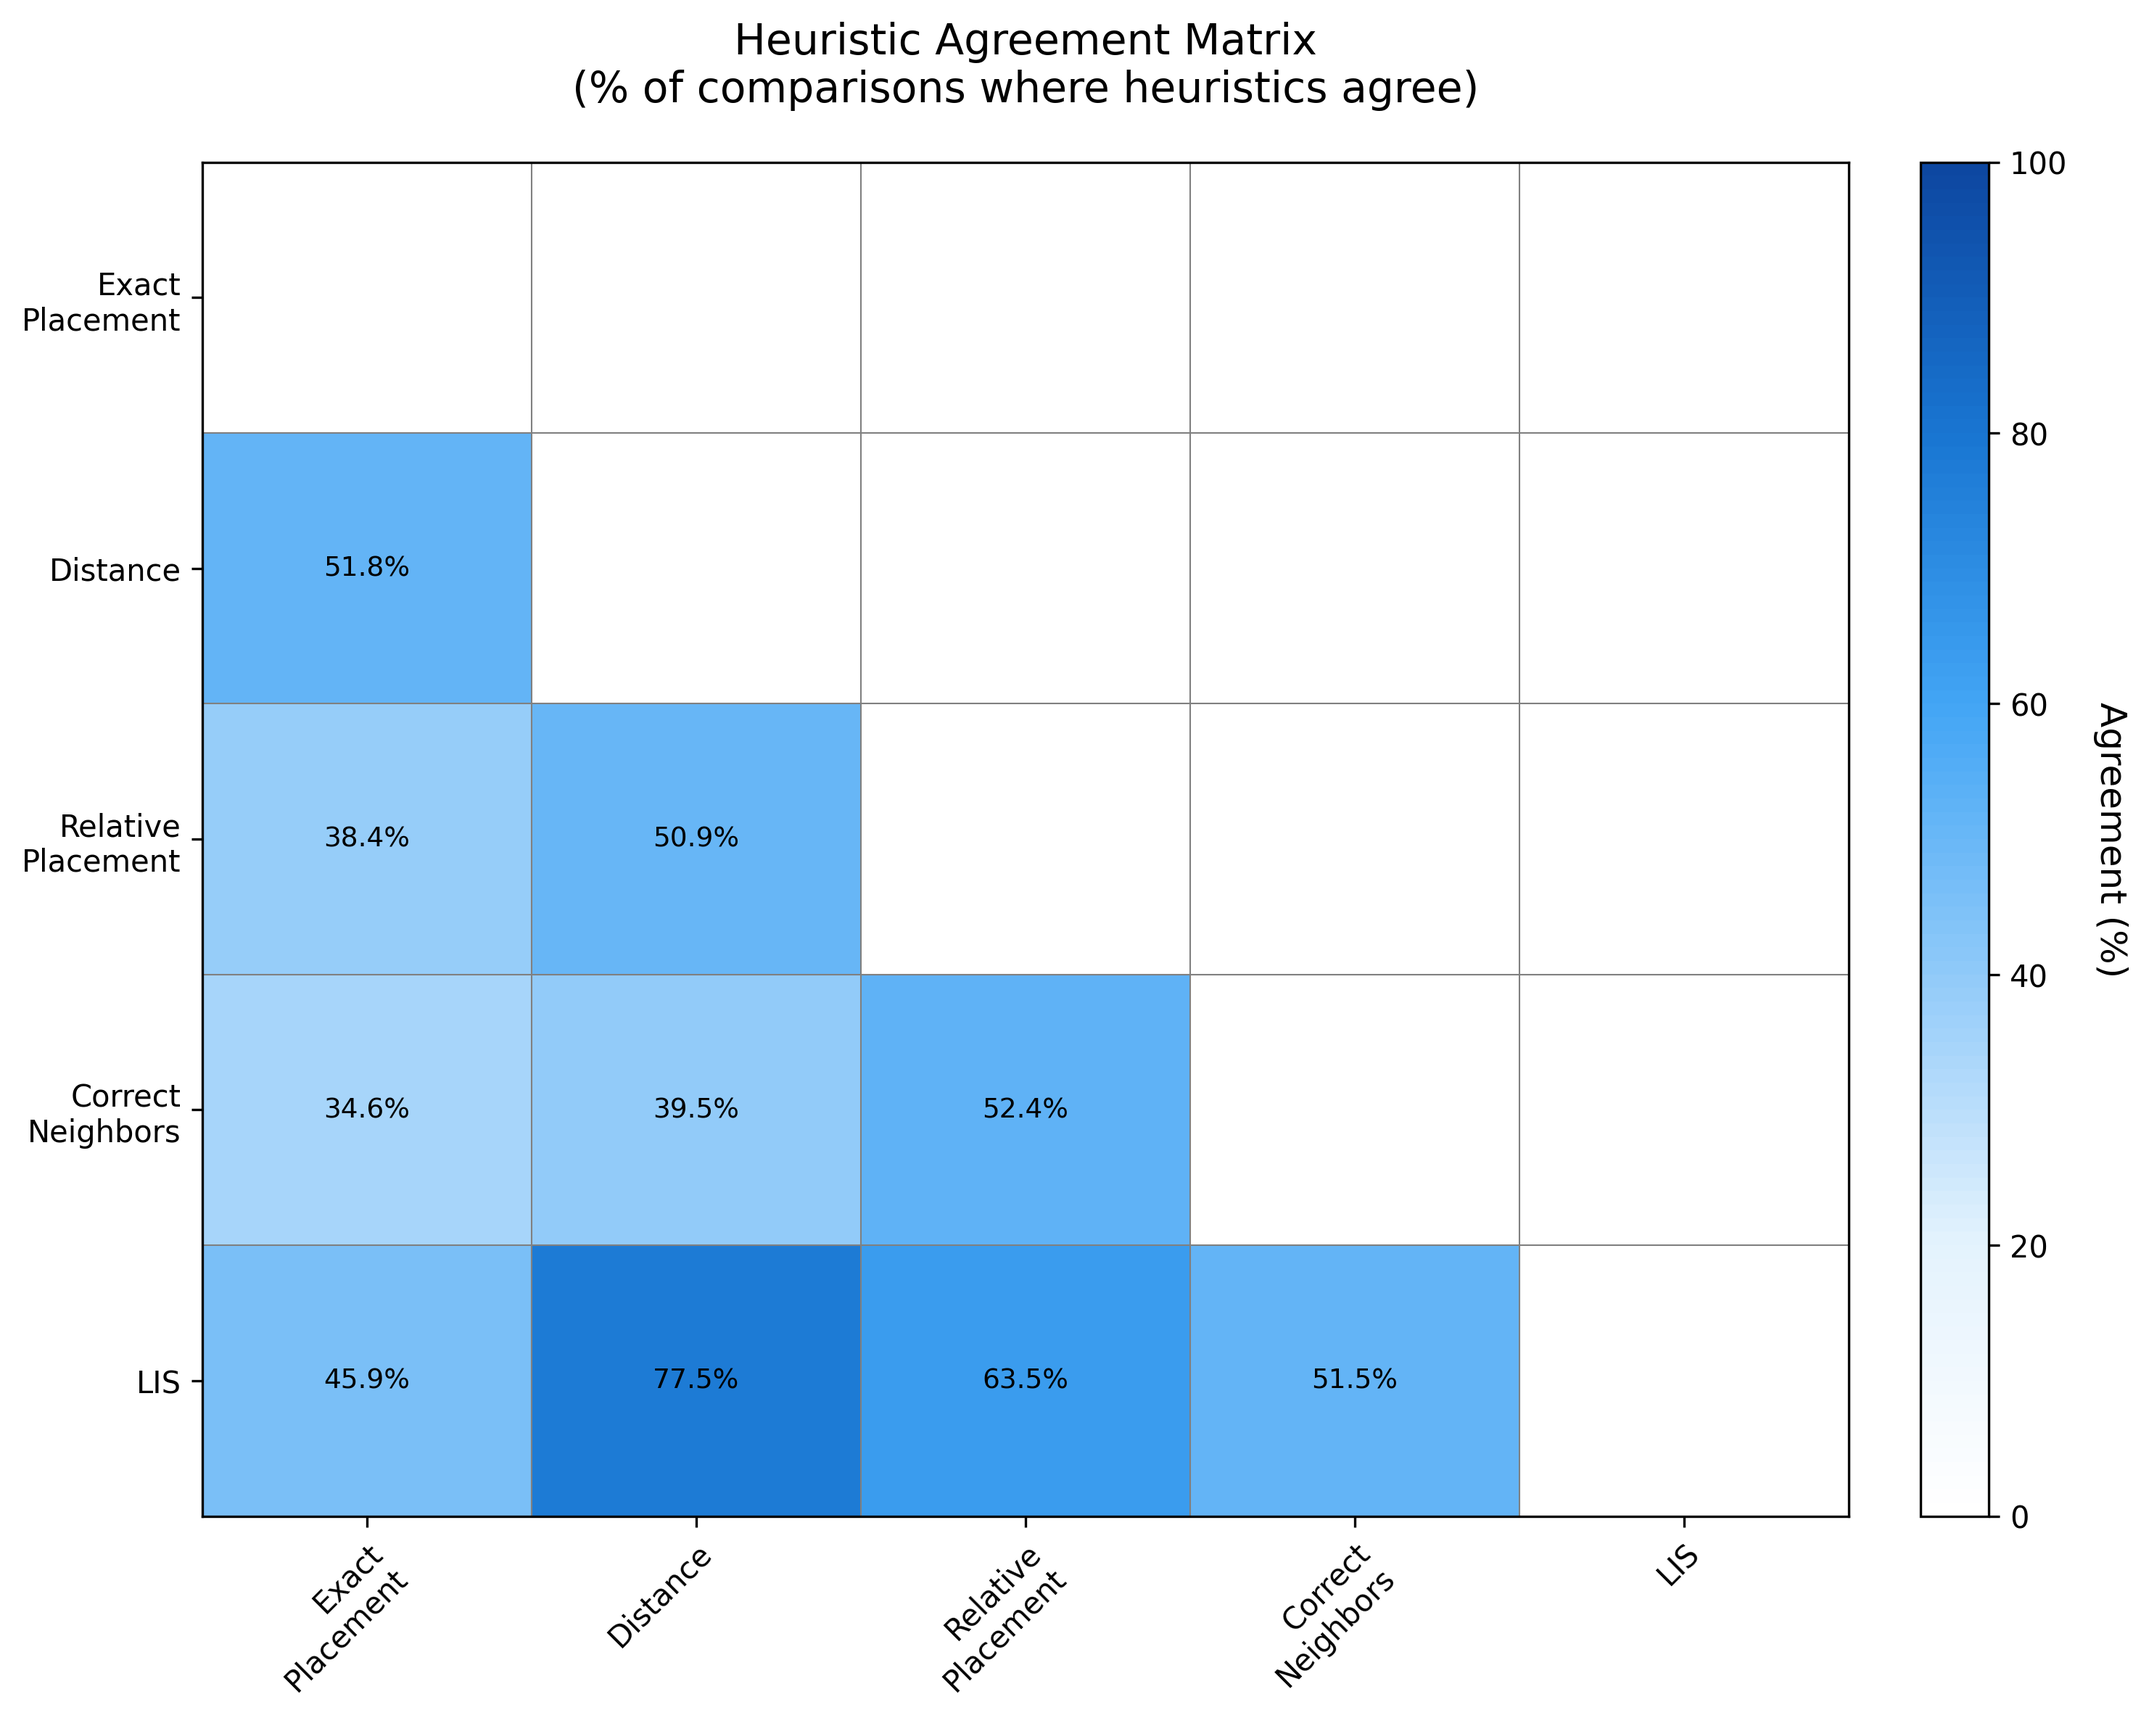
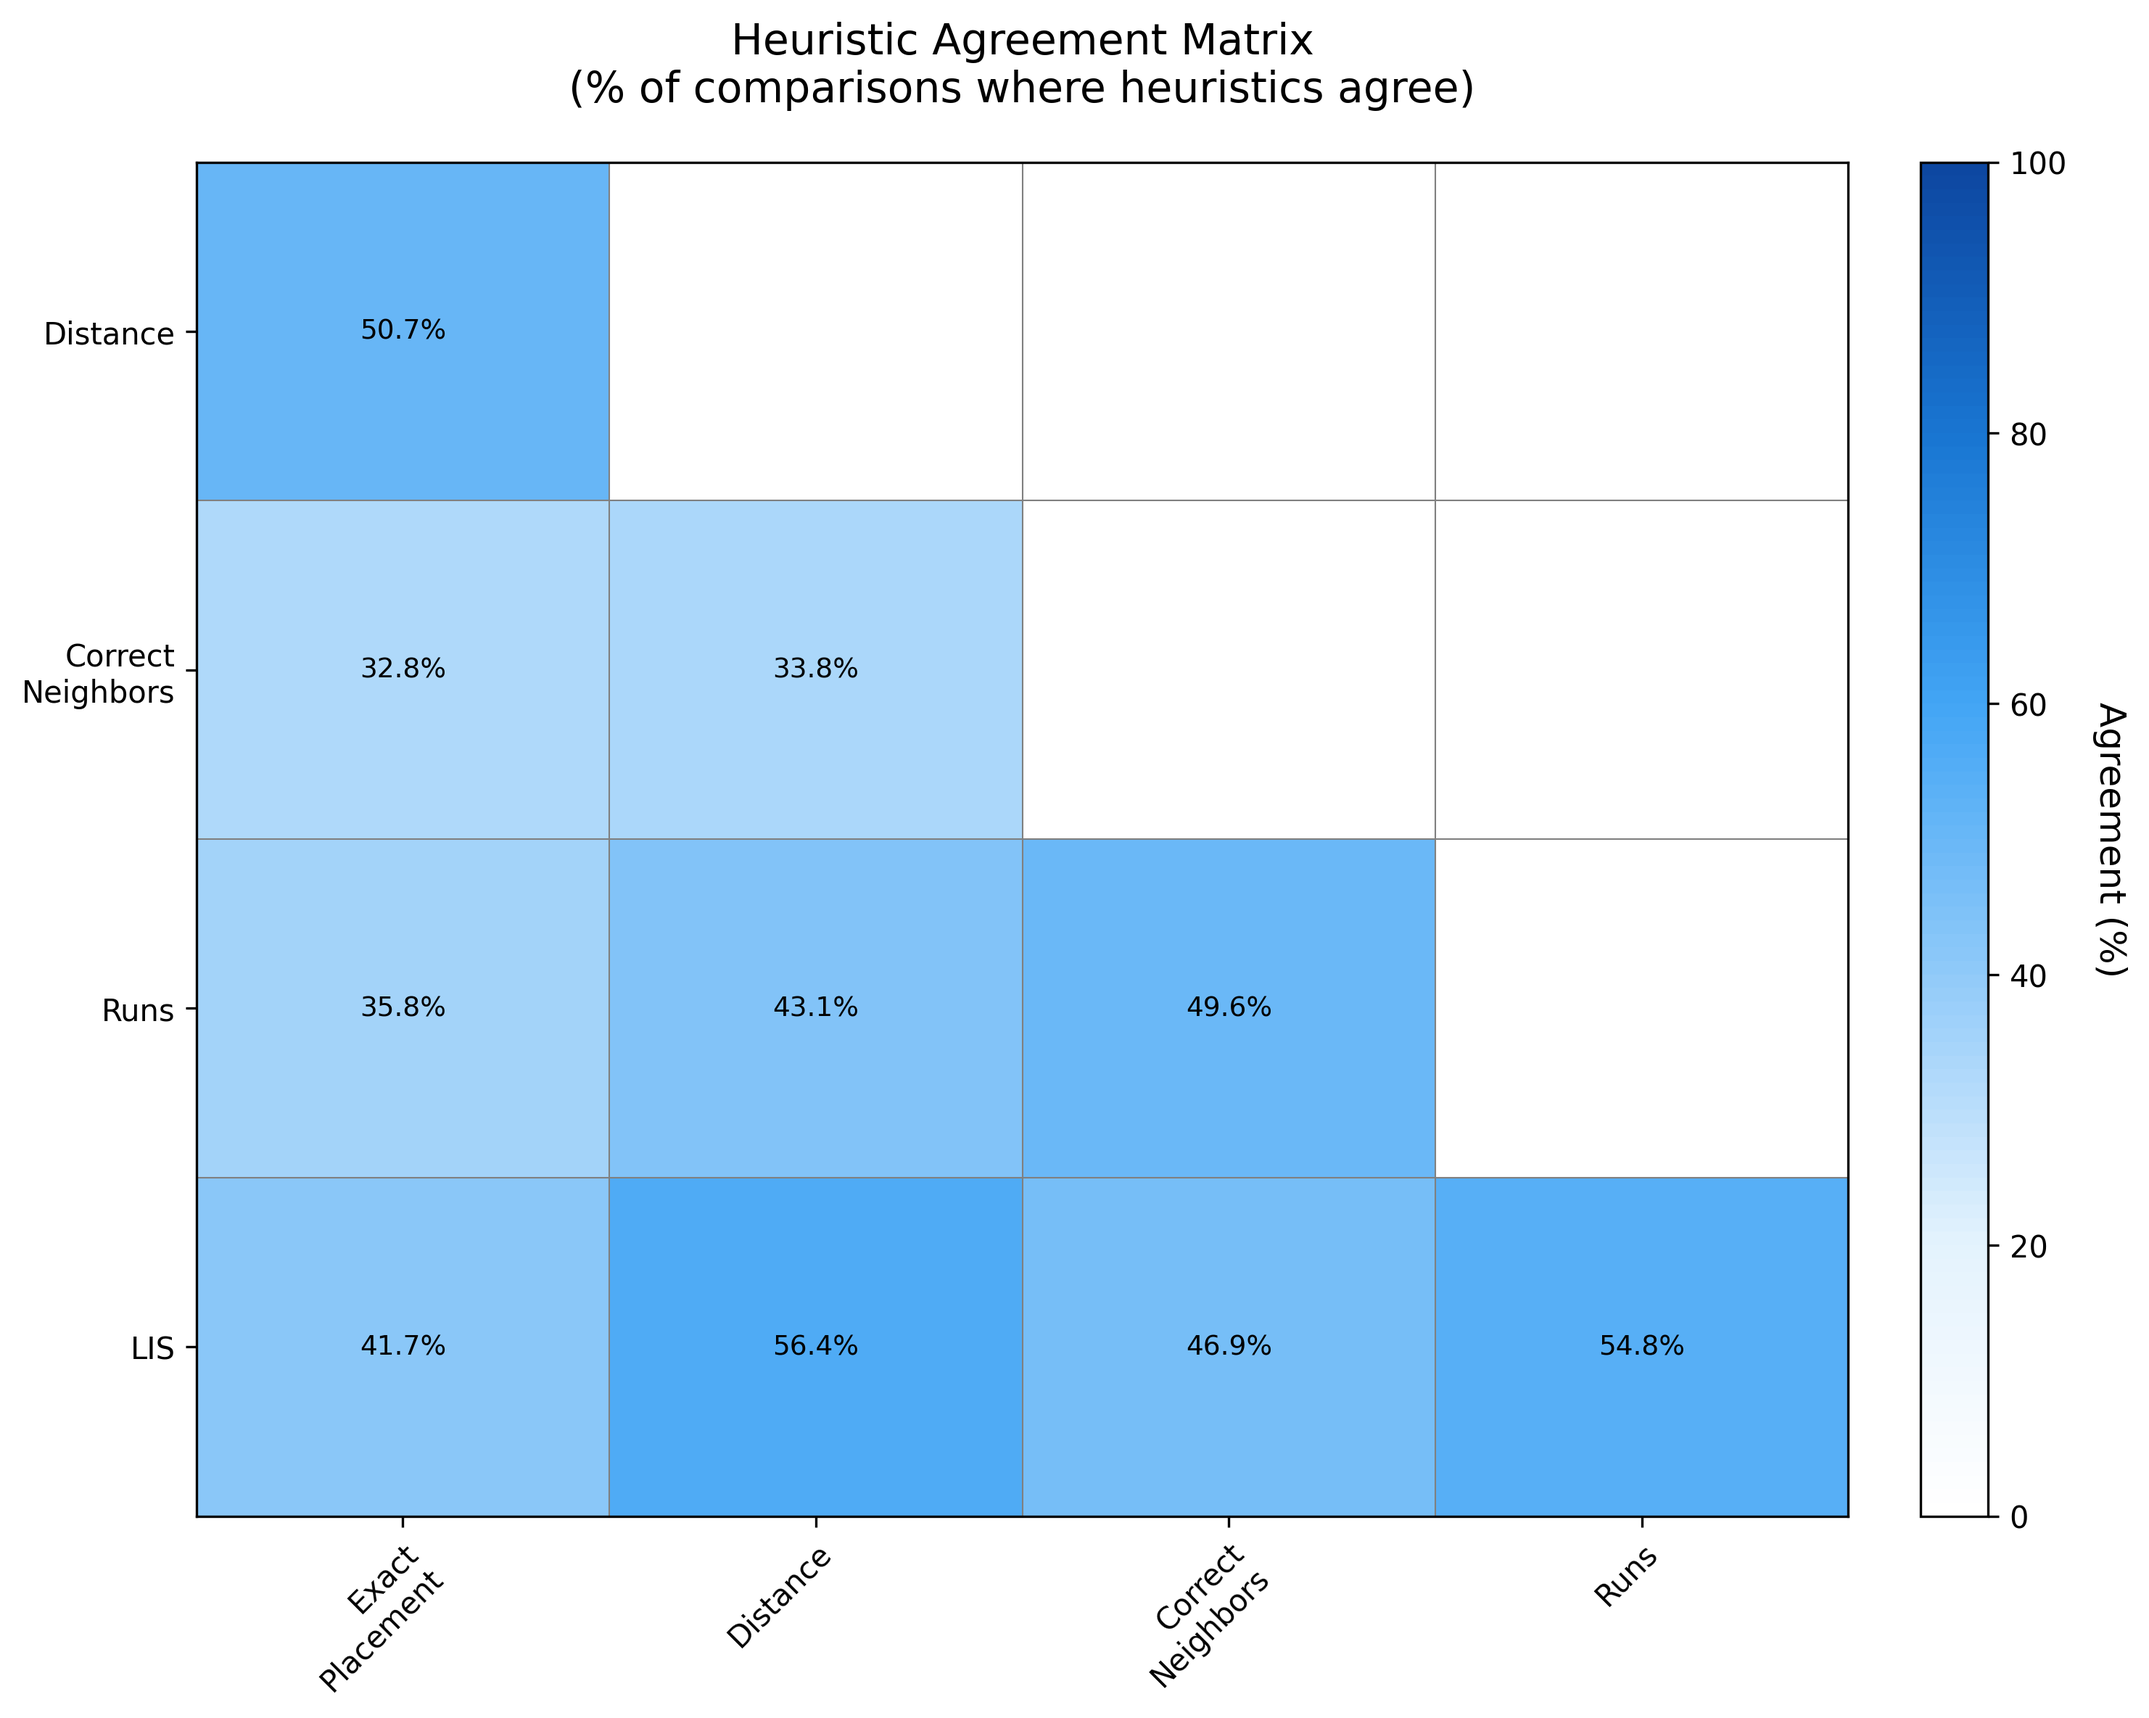
more progress on um-actually content

diff --git a/rust/how_sorted/analyze_heuristics.py b/rust/how_sorted/analyze_heuristics.py
@@ -30,8 +30,8 @@ def calculate_agreement_matrix(results):
     heuristics = [
         "exact_placement",
         "distance",
-        "relative_placement",
         "correct_neighbors",
+        "runs",
         "lis",
     ]
     n = len(heuristics)
@@ -59,12 +59,20 @@ def create_triangular_heatmap(
     Create a triangular heatmap showing agreement between heuristics.
 
     Only the lower triangle is shown to avoid redundancy (since agreement is symmetric).
+    The first row and last column are excluded since they contain no data in a
+    lower-triangular layout.
     """
     n = len(heuristics)
 
-    # Create a masked array for the upper triangle
-    mask = np.triu(np.ones_like(agreement_matrix, dtype=bool))
-    masked_data = np.ma.array(agreement_matrix, mask=mask)
+    # Exclude first row and last column (they're always empty in lower triangle)
+    # Row labels: heuristics[1:] (skip first)
+    # Column labels: heuristics[:-1] (skip last)
+    trimmed_matrix = agreement_matrix[1:, :-1]
+    trimmed_n = n - 1
+
+    # Create a masked array for the strictly upper triangle (k=1 excludes diagonal)
+    mask = np.triu(np.ones_like(trimmed_matrix, dtype=bool), k=1)
+    masked_data = np.ma.array(trimmed_matrix, mask=mask)
 
     # Create figure and axis
     fig, ax = plt.subplots(figsize=(10, 8))
@@ -82,32 +90,33 @@ def create_triangular_heatmap(
     cbar.set_label("Agreement (%)", rotation=270, labelpad=20, fontsize=12)
 
     # Set ticks and labels
-    ax.set_xticks(np.arange(n))
-    ax.set_yticks(np.arange(n))
+    ax.set_xticks(np.arange(trimmed_n))
+    ax.set_yticks(np.arange(trimmed_n))
 
     # Shorten labels for display
     short_labels = [
         "Exact\nPlacement",
         "Distance",
-        "Relative\nPlacement",
         "Correct\nNeighbors",
+        "Runs",
         "LIS",
     ]
 
-    ax.set_xticklabels(short_labels, fontsize=10)
-    ax.set_yticklabels(short_labels, fontsize=10)
+    # X-axis: all but last label, Y-axis: all but first label
+    ax.set_xticklabels(short_labels[:-1], fontsize=10)
+    ax.set_yticklabels(short_labels[1:], fontsize=10)
 
     # Rotate x-axis labels
     plt.setp(ax.get_xticklabels(), rotation=45, ha="right", rotation_mode="anchor")
 
     # Add text annotations for each cell
-    for i in range(n):
-        for j in range(n):
-            if i > j:  # Only lower triangle
+    for i in range(trimmed_n):
+        for j in range(trimmed_n):
+            if i >= j:  # Lower triangle including diagonal
                 ax.text(
                     j,
                     i,
-                    f"{agreement_matrix[i, j]:.1f}%",
+                    f"{trimmed_matrix[i, j]:.1f}%",
                     ha="center",
                     va="center",
                     color="black",
@@ -121,8 +130,8 @@ def create_triangular_heatmap(
     )
 
     # Add grid
-    ax.set_xticks(np.arange(n) - 0.5, minor=True)
-    ax.set_yticks(np.arange(n) - 0.5, minor=True)
+    ax.set_xticks(np.arange(trimmed_n) - 0.5, minor=True)
+    ax.set_yticks(np.arange(trimmed_n) - 0.5, minor=True)
     ax.grid(which="minor", color="gray", linestyle="-", linewidth=0.5)
     ax.tick_params(which="minor", size=0)
 

diff --git a/rust/how_sorted/src/lib.rs b/rust/how_sorted/src/lib.rs
@@ -35,22 +35,6 @@ pub fn score_by_distance(l: impl Iterator<Item = i32>) -> i32 {
 }
 // SNIPPET_END: score_by_distance
 
-// implementation 3 - score by relative placement:
-// This version compares each neighboring pair of elements and counts the number
-// of neighbors that are out of order.
-//
-// ```ocaml
-// let score_by_relative_placement l =
-//    List.count (List.pairs l) ~f:(fun a b -> b < a)
-// ```
-//
-// A score of 0 is perfect, and larger scores are worse
-// SNIPPET_START: score_by_relative_placement
-pub fn score_by_relative_placement(l: &[i32]) -> usize {
-    l.windows(2).filter(|pair| pair[1] < pair[0]).count()
-}
-// SNIPPET_END: score_by_relative_placement
-
 // implementation 3 - score by correct neighbors:
 // This version compares each neighboring pair of elements and counts the number
 // of neighbors that aren't actually next to one another in the sorted list.
@@ -67,7 +51,26 @@ pub fn score_by_correct_neighbors(l: &[i32]) -> usize {
 }
 // SNIPPET_END: score_by_correct_neighbors
 
-// implementation 4 - score by num modifications:
+// implementation 4 - score by runs:
+// This version counts how many "ascending runs" the list has. A perfectly
+// sorted list has exactly 1 run, while a heavily shuffled list has many.
+// For example, [1,2,3,5,4,6,7] has 3 runs: [1,2,3], [5], [4,6,7].
+// We return runs - 1 so that a perfectly sorted list scores 0.
+//
+// A score of 0 is perfect, and larger scores are worse
+// SNIPPET_START: score_by_runs
+pub fn score_by_runs(l: &[i32]) -> usize {
+    if l.is_empty() {
+        return 0;
+    }
+    // Count the number of times we start a new run (when current < previous)
+    // Number of runs = 1 + number of "breaks"
+    let breaks = l.windows(2).filter(|pair| pair[1] < pair[0]).count();
+    breaks // This equals runs - 1, so a sorted list scores 0
+}
+// SNIPPET_END: score_by_runs
+
+// implementation 5 - score by num modifications:
 // This is a heuristic that would be easy for a human to understand, but could
 // be hard for them to implement. Imagine that you have a small hand of playing
 // cards laid out on a table in some order. We can define "how sorted are these

diff --git a/rust/how_sorted/src/main.rs b/rust/how_sorted/src/main.rs
@@ -18,8 +18,8 @@ struct ComparisonResult {
     sequence_b: Vec<i32>,
     exact_placement: Outcome,
     distance: Outcome,
-    relative_placement: Outcome,
     correct_neighbors: Outcome,
+    runs: Outcome,
     lis: Outcome,
 }
 
@@ -60,17 +60,17 @@ fn main() {
         let distance_a = score_by_distance(seq_a.iter().copied());
         let distance_b = score_by_distance(seq_b.iter().copied());
 
-        let relative_a = score_by_relative_placement(&seq_a);
-        let relative_b = score_by_relative_placement(&seq_b);
-
         let neighbors_a = score_by_correct_neighbors(&seq_a);
         let neighbors_b = score_by_correct_neighbors(&seq_b);
+
+        let runs_a = score_by_runs(&seq_a);
+        let runs_b = score_by_runs(&seq_b);
 
         let lis_a = score_by_lis(&seq_a);
         let lis_b = score_by_lis(&seq_b);
 
         //if !(lis_a <= 3 || lis_b <= 3) {
-        if lis_a == lis_b {
+        if false {
             continue;
         }
 
@@ -79,8 +79,8 @@ fn main() {
             sequence_b: seq_b,
             exact_placement: compare_scores(exact_a, exact_b),
             distance: compare_scores(distance_a, distance_b),
-            relative_placement: compare_scores(relative_a, relative_b),
             correct_neighbors: compare_scores(neighbors_a, neighbors_b),
+            runs: compare_scores(runs_a, runs_b),
             lis: compare_scores(lis_a, lis_b),
         });
 

diff --git a/content/posts/um-actually.md b/content/posts/um-actually.md
@@ -152,22 +152,9 @@ element is off by 1, and we have 7 elements, but the first one is off by 6),
 while Person B's reversed list would score much higher. This metric properly
 rewards partial correctness.
 
-# Option 3: score by relative placement
+# Option 3: score by correct neighbors
 
-Maybe we don't care about absolute positioning at all. Perhaps what matters is
-whether elements are in the right order _relative to each other_. This approach
-counts how many neighboring pairs are out of order.
-
-{{< code-snippet file="rust/how_sorted/src/lib.rs" region="score_by_relative_placement" lang="rust" >}}
-
-This metric counts "inversions" - pairs of adjacent elements where the second
-one should come before the first. Person A would score 1 (just the HP 7 / HP 1
-inversion at the start), while Person B would score 6 (every single pair is
-inverted). Much better!
-
-# Option 4: score by correct neighbors
-
-Similar to relative placement, but stricter: this counts how many adjacent
+This approach counts how many adjacent
 pairs _aren't consecutive in the sorted list_. Even if two elements are in
 the right order relative to each other, if they're not actually neighbors in
 the sorted sequence, it counts against you.
@@ -178,6 +165,22 @@ This is even more strict than the previous metric. For Person A's list, HP 1
 through HP 6 are all consecutive, so we'd only penalize the HP 7 at the front
 (1 incorrect neighbor pair). Person B's reversed list would have every pair
 incorrect (6 penalties).
+
+# Option 4: score by runs
+
+Another intuitive approach: count how many "ascending runs" exist in the list.
+A perfectly sorted list has exactly one run (the whole thing is ascending),
+while a heavily shuffled list breaks into many separate runs.
+
+For example, `[1, 2, 3, 5, 4, 6, 7]` has 3 runs: `[1, 2, 3]`, then `[5]` (which
+breaks because 4 < 5), then `[4, 6, 7]`.
+
+{{< code-snippet file="rust/how_sorted/src/lib.rs" region="score_by_runs" lang="rust" >}}
+
+For Person A's list `[7, 1, 2, 3, 4, 5, 6]`, we have 2 runs: `[7]` and
+`[1, 2, 3, 4, 5, 6]`, so the score is 1 (one break). For Person B's reversed
+list `[7, 6, 5, 4, 3, 2, 1]`, every adjacent pair is descending, giving us 7
+runs and a score of 6. Person A wins again!
 
 # Option 5: score by minimum modifications (the gold standard)
 
@@ -216,7 +219,7 @@ striking:
 This heatmap shows the percentage of time each pair of heuristics agrees on
 which sequence is "more sorted". The key findings:
 
-- **Distance, Relative Placement, Correct Neighbors, and LIS** all show very
+- **Distance, Correct Neighbors, Runs, and LIS** all show very
   high agreement with each other (typically 85-95%), suggesting they're
   measuring fundamentally similar properties
 - **Exact Placement** shows much lower agreement with every other heuristic
@@ -232,8 +235,8 @@ of "closeness" to the correct answer. Any of the alternatives presented here
 would be fairer:
 
 - **Score by distance**: Simple and intuitive, rewards partial correctness
-- **Score by relative placement**: Focuses on pairwise ordering
-- **Score by correct neighbors**: Stricter version of relative placement
+- **Score by correct neighbors**: Checks if adjacent elements belong together
+- **Score by runs**: Counts ascending subsequences, easy to visualize
 - **Score by minimum modifications**: The most accurate, measures actual work needed
 
 My recommendation? Use the LIS-based approach. It's computationally efficient,
